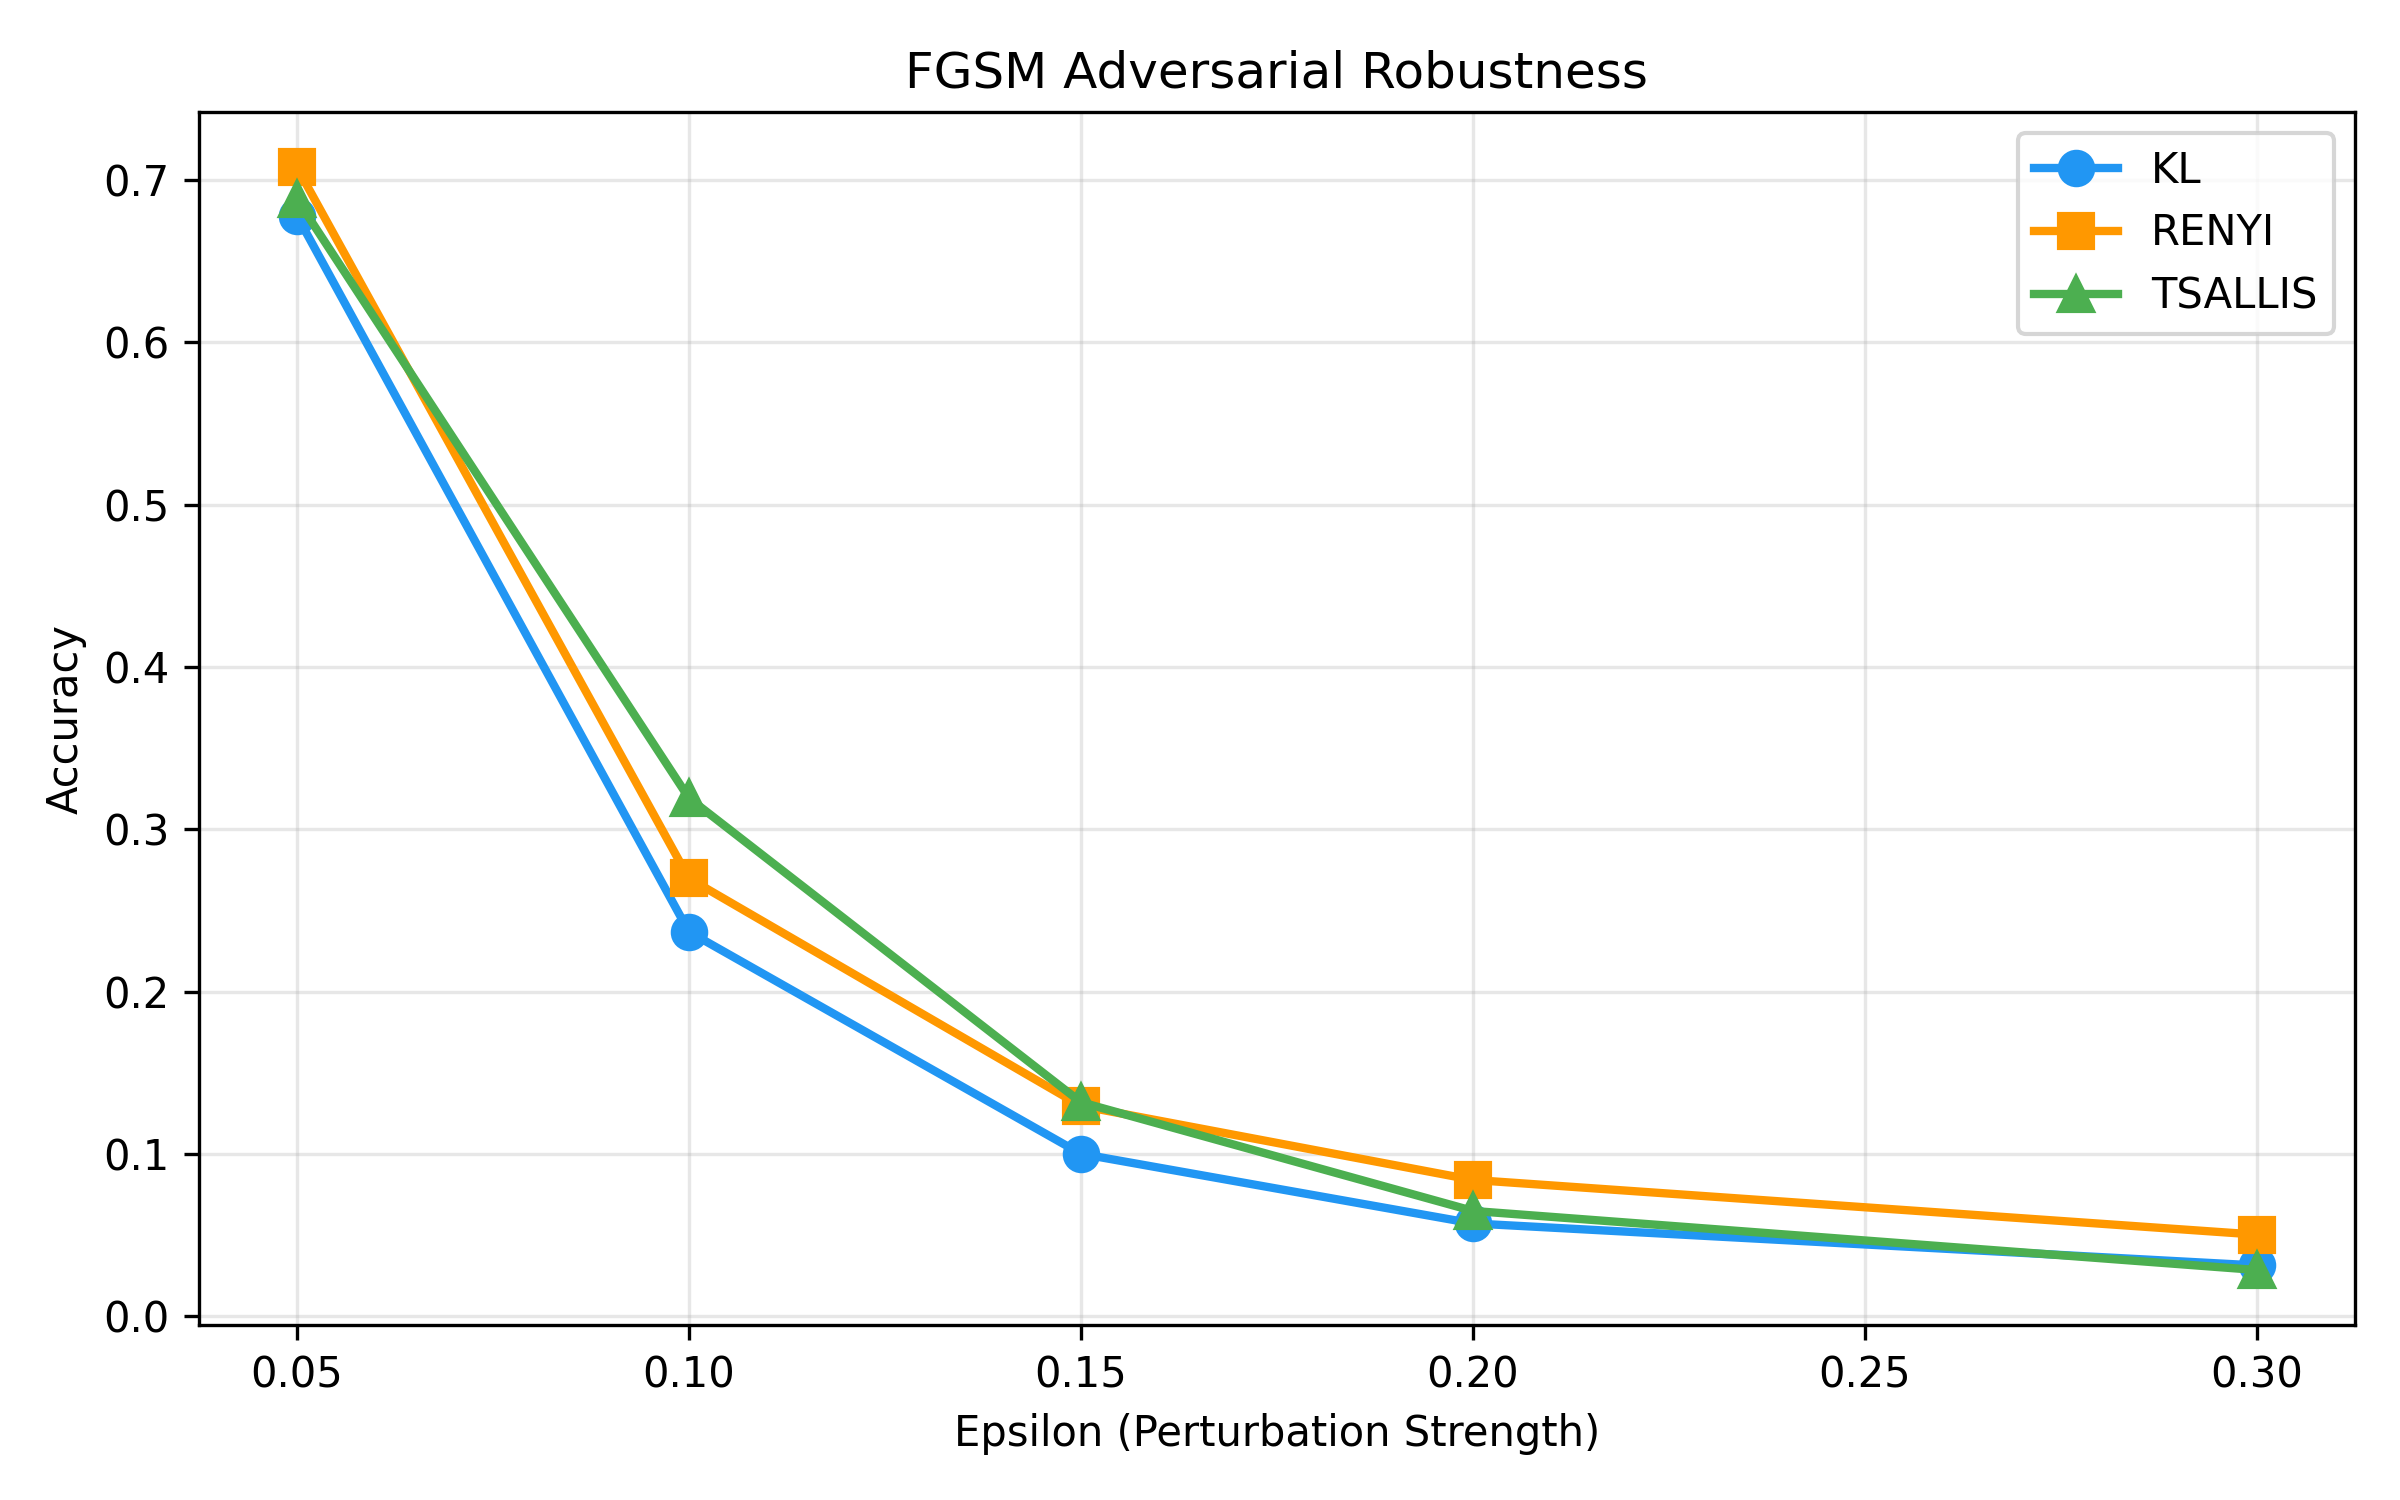
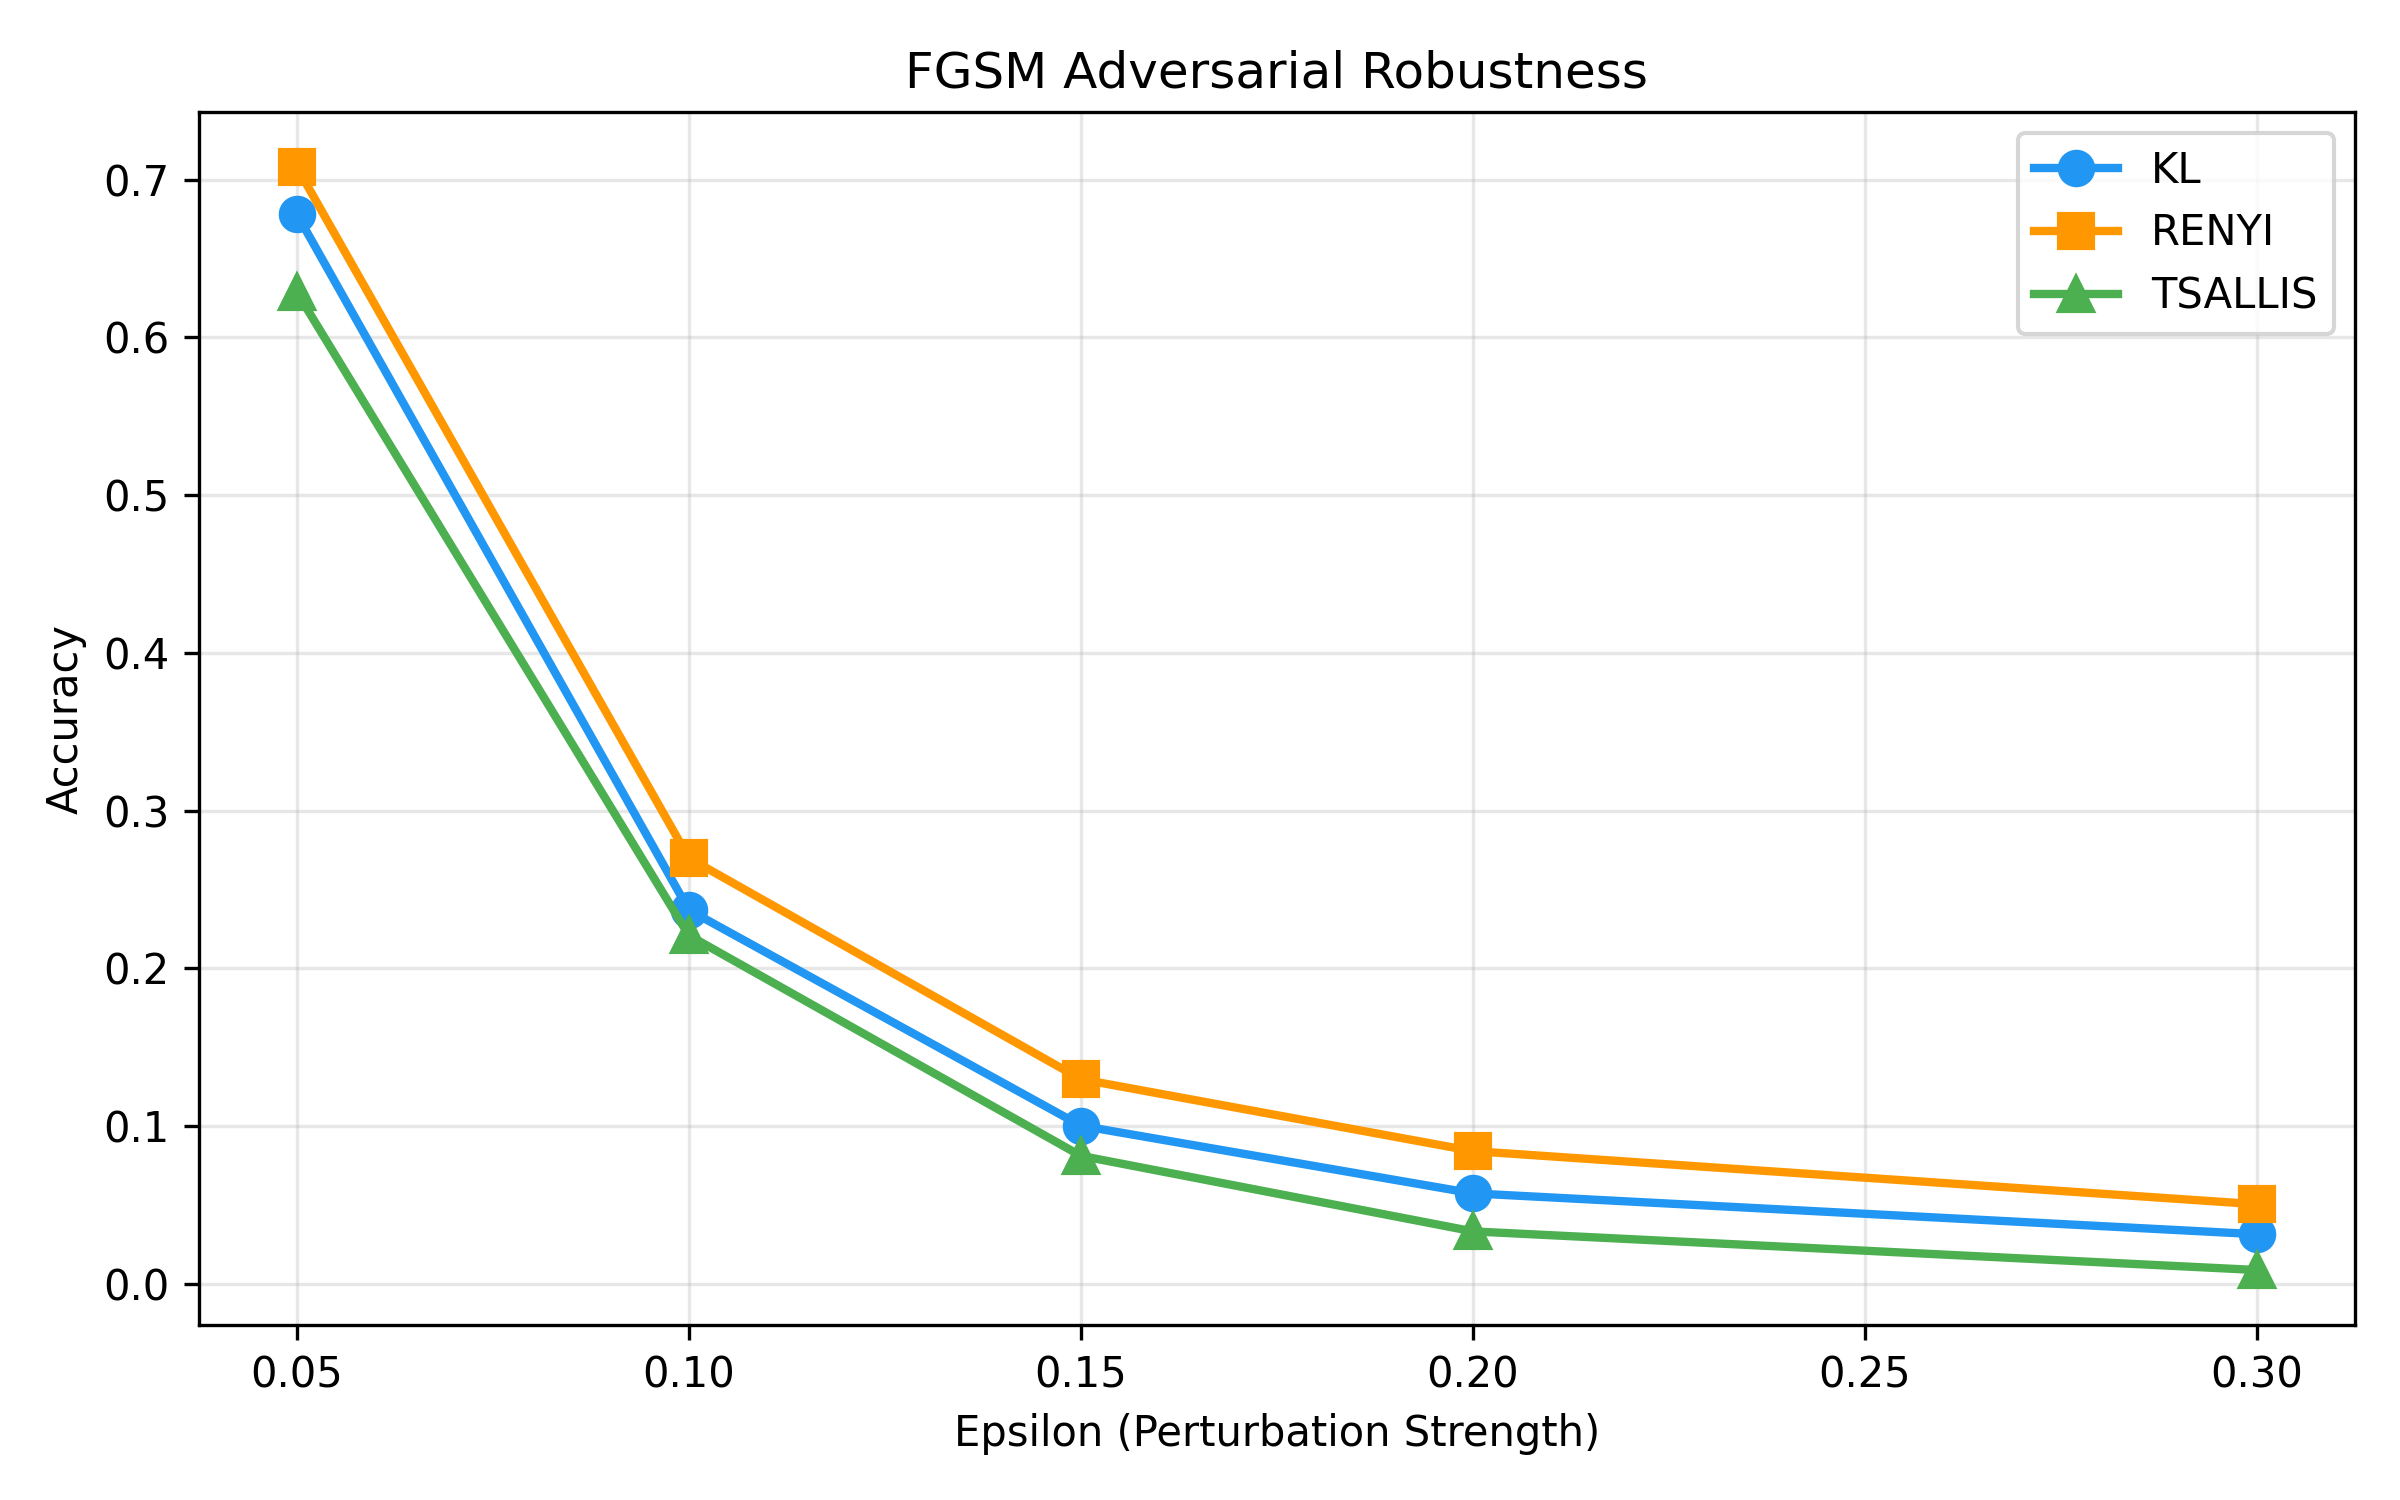
Did some changes in the tsallis loss function and recorded the results

diff --git a/adversarial_attacks_analysis/run_analysis.py b/adversarial_attacks_analysis/run_analysis.py
@@ -344,6 +344,15 @@ def train_model(
                 + BETA * information_loss
             )
 
+            # Add weak KL regularizer to prevent vanishing gradients
+            if divergence == "tsallis":
+                kl_loss = divergence_loss(
+                    mu,
+                    logvar,
+                    divergence="kl"
+                )
+                loss = loss + 1e-5 * kl_loss
+
 
             # Numerical sanity check
             if not torch.isfinite(loss):
